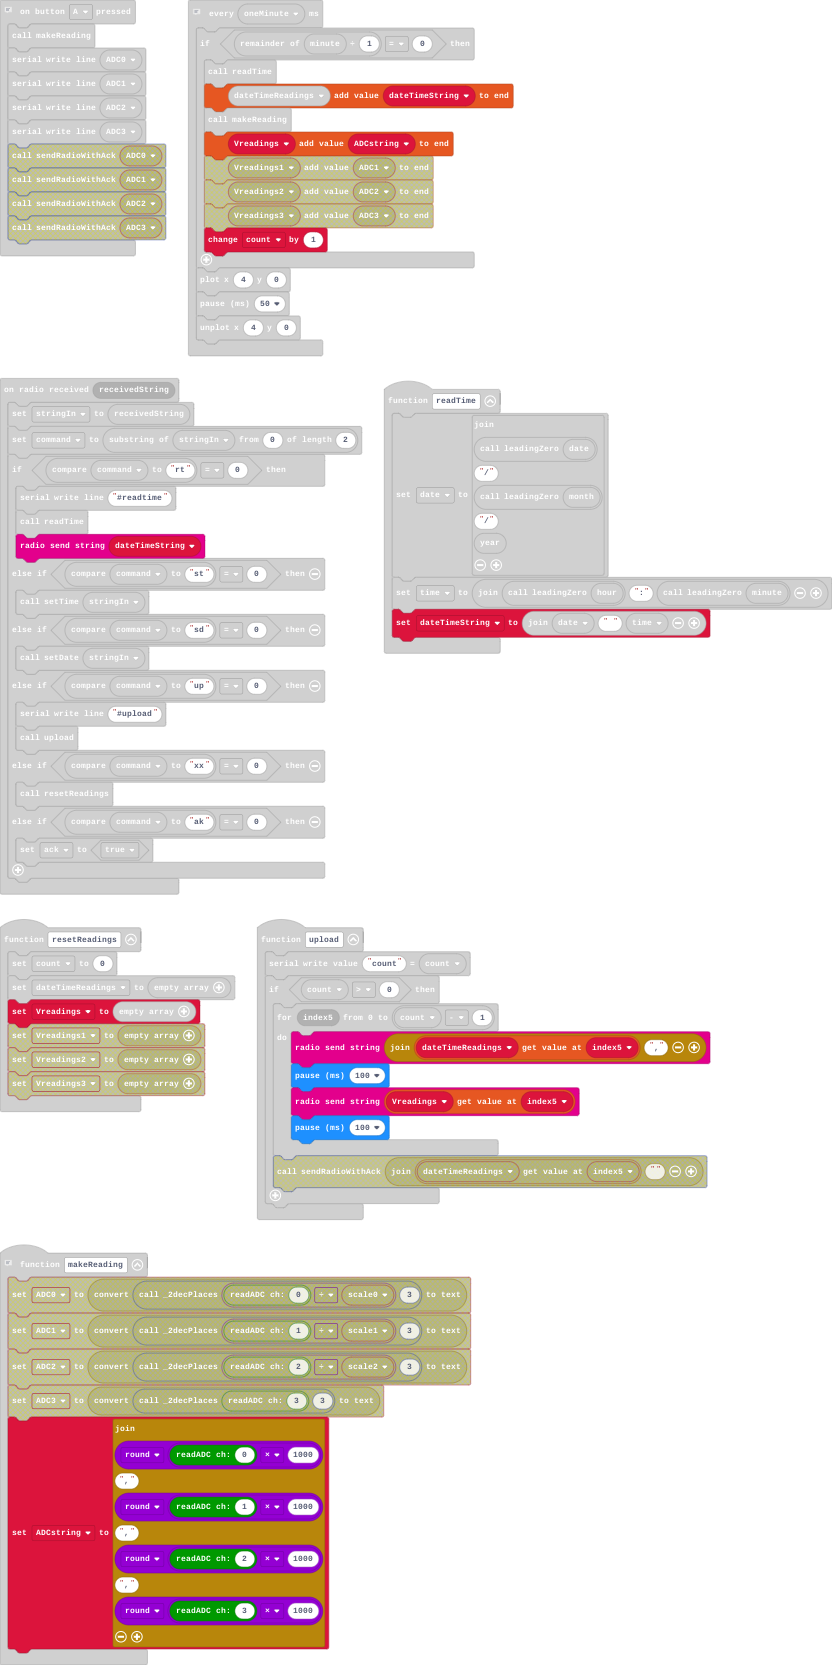
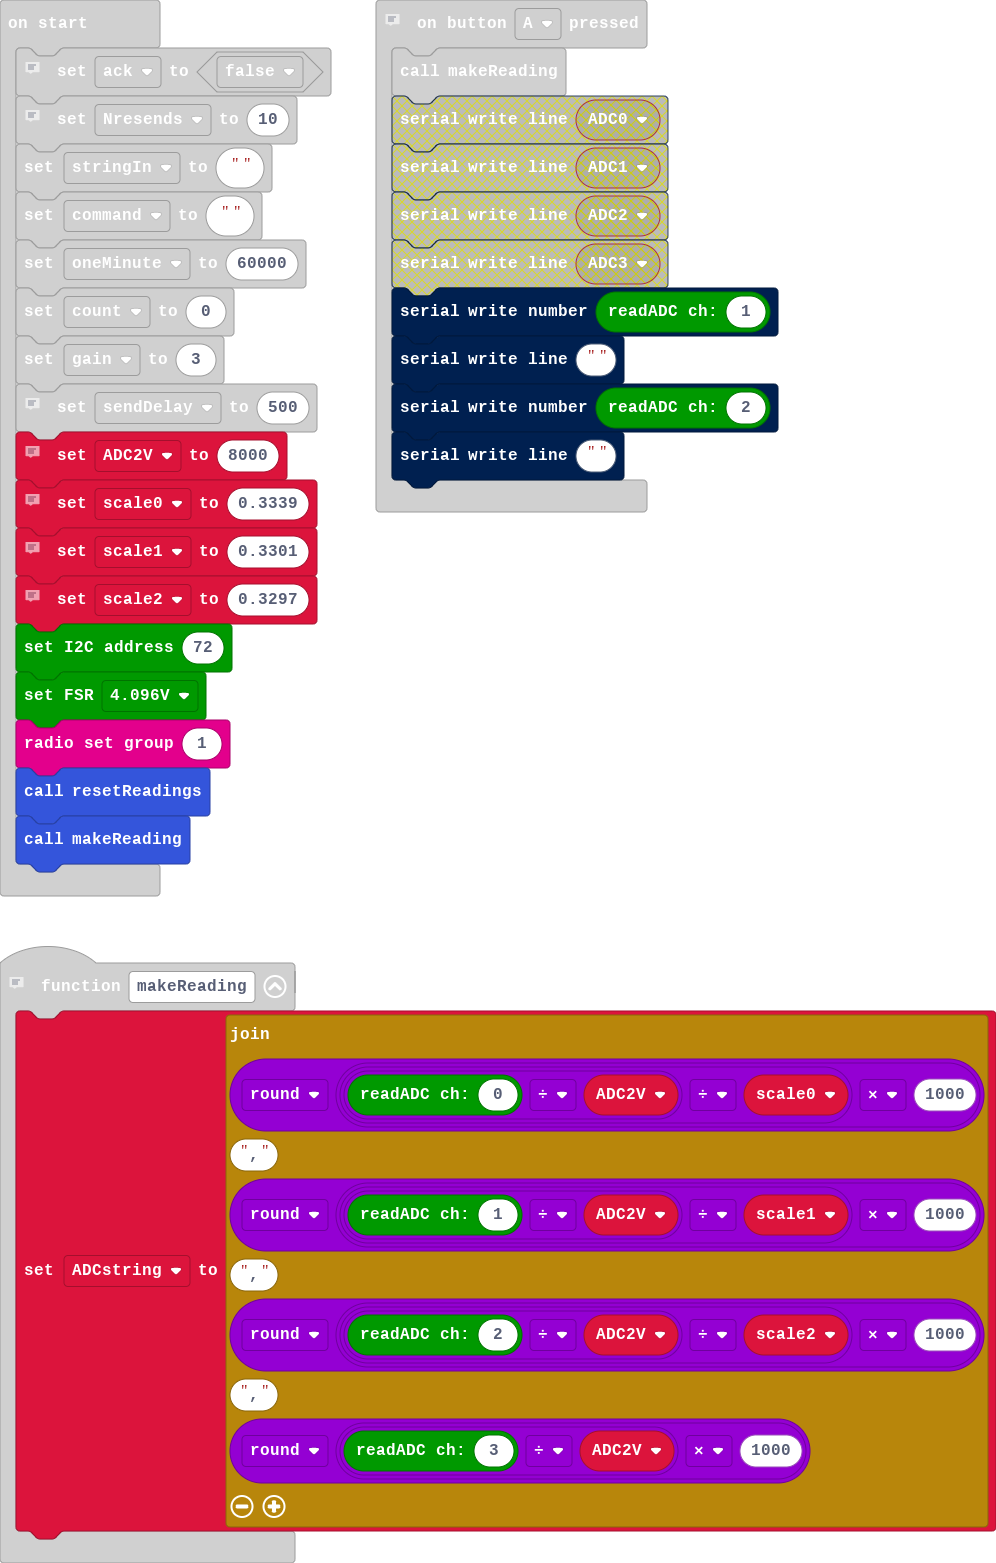
debug after major chnage

diff --git a/main.ts b/main.ts
@@ -5,7 +5,7 @@ function readTime () {
 }
 // Round to 3 dec places, and multiply by gain for attenuated inputs
 function makeReading () {
-    ADCstring = "" + Math.round(ADS1115.readADC(0) * 1000) + "," + Math.round(ADS1115.readADC(1) * 1000) + "," + Math.round(ADS1115.readADC(2) * 1000) + "," + Math.round(ADS1115.readADC(3) * 1000)
+    ADCstring = "" + Math.round(ADS1115.readADC(0) / ADC2V / scale0 * 1000) + "," + Math.round(ADS1115.readADC(1) / ADC2V / scale1 * 1000) + "," + Math.round(ADS1115.readADC(2) / ADC2V / scale2 * 1000) + "," + Math.round(ADS1115.readADC(3) / ADC2V * 1000)
 }
 function resetReadings () {
     count = 0
@@ -26,15 +26,11 @@ function _2decPlaces (num: number, places: number) {
 }
 // Instant Reading
 input.onButtonPressed(Button.A, function () {
-    let ADC3 = 0
-    let ADC2 = 0
-    let ADC1 = 0
-    let ADC0 = 0
     makeReading()
-    serial.writeLine("" + (ADC0))
-    serial.writeLine("" + (ADC1))
-    serial.writeLine("" + (ADC2))
-    serial.writeLine("" + (ADC3))
+    serial.writeNumber(ADS1115.readADC(1))
+    serial.writeLine("")
+    serial.writeNumber(ADS1115.readADC(2))
+    serial.writeLine("")
 })
 function sendRadioWithAck (text: string) {
     for (let index = 0; index < Nresends; index++) {
@@ -116,6 +112,10 @@ let ADCstring = ""
 let dateTimeString = ""
 let time = ""
 let date = ""
+let scale2 = 0
+let scale1 = 0
+let scale0 = 0
+let ADC2V = 0
 let count = 0
 let command = ""
 let stringIn = ""
@@ -132,12 +132,14 @@ count = 0
 let gain = 3
 // Delay between sending Radio messages
 let sendDelay = 500
+// convert ADC reading to Volts by dividing by this
+ADC2V = 8000
 // Accurate scaling for attenuators
-let scale0 = 0.3339
+scale0 = 0.3339
 // Accurate scaling for attenuators
-let scale1 = 0.3301
+scale1 = 0.3301
 // Accurate scaling for attenuators
-let scale2 = 0.3297
+scale2 = 0.3297
 ADS1115.setADDR(72)
 ADS1115.setFSR(FSR.V4)
 radio.setGroup(1)
